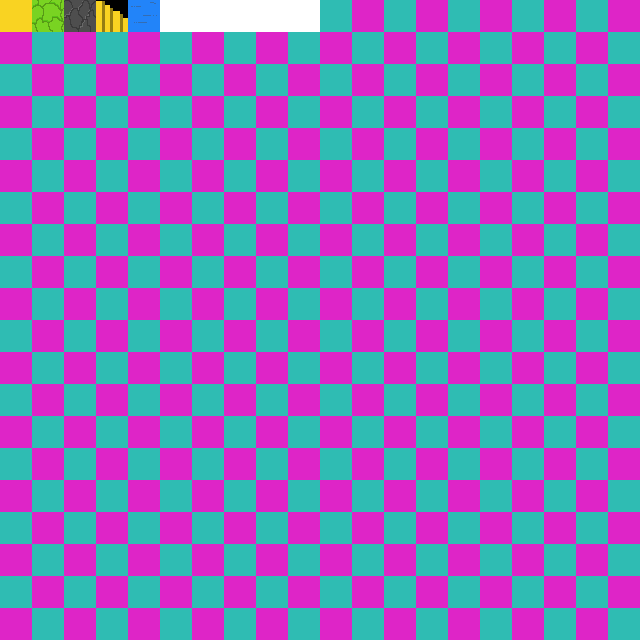
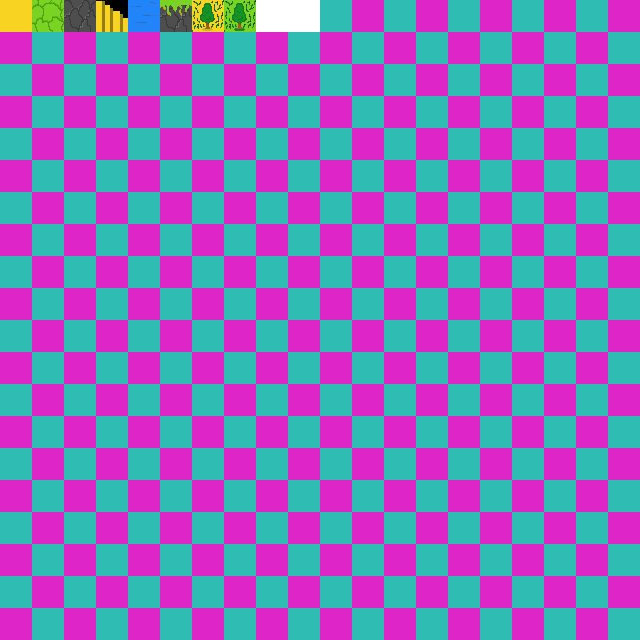
added new tiles

Changed region(s): [[0.25, 0.0, 0.4062, 0.0625]]

diff --git a/tiles.py b/tiles.py
@@ -72,6 +72,12 @@ class TileMap():
                     tiles.append(Tile('water.png', x * self.tile_size, y * self.tile_size, self.spritesheet,groups, z=1))
                 elif tile == '6':
                     tiles.append(Barrier('water.png', x * self.tile_size, y * self.tile_size, self.spritesheet,groups,colli, z=1))
+                elif tile == '7':
+                    tiles.append(Barrier('stone_greenTop.png', x * self.tile_size, y * self.tile_size, self.spritesheet,groups,colli, z=1))
+                elif tile == '8':
+                    tiles.append(Barrier('tree.png', x * self.tile_size, y * self.tile_size, self.spritesheet,groups,colli, z=1))
+                elif tile == '9':
+                    tiles.append(Barrier('tree_2.png', x * self.tile_size, y * self.tile_size, self.spritesheet,groups,colli, z=1))
                     # Move to next tile in current row
                 x += 1
 
